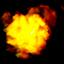
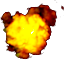
new file:   assets/crashed_m4.png 	modified:   assets/explosion/tile000.png 	modified:   assets/explosion/tile001.png 	modified:   assets/explosion/tile002.png 	modified:   assets/explosion/tile003.png 	modified:   assets/explosion/tile004.png 	modified:   assets/explosion/tile005.png 	modified:   a

diff --git a/main.py b/main.py
@@ -2,11 +2,12 @@ import asyncio
 import pygame as pg
 import sys, platform, math, random
 import subprocess  # Import subprocess module
+import time
 
 from player import Player
 from themes import load_themes, set_theme
 from objects import OncomingCar, StaticObject, Helicopter, Target
-from renderer import render_element, draw_background
+from renderer import render_element, draw_background, render_explosion
 
 async def main():
     SCREEN_WIDTH = 320
@@ -23,10 +24,12 @@ async def main():
 
     road_texture = pg.image.load("assets/road.png").convert()
     car_sprite = pg.image.load("assets/m4.png").convert_alpha()
+    crashed_car_sprite = pg.image.load("assets/crashed_m4.png").convert_alpha()
     font_settings = pg.font.Font('assets/racing_font.ttf', 30)  # For settings menu
     
     car_sprite.set_colorkey((255, 0, 255))
     car_sprite = pg.transform.scale(car_sprite, (int(car_sprite.get_size()[0]/3), int(car_sprite.get_size()[1]/3)))
+    crashed_car_sprite = pg.transform.scale(crashed_car_sprite, (int(crashed_car_sprite.get_size()[0]/4), int(crashed_car_sprite.get_size()[1]/4)))
 
     # Load themes and home icon (Saif 29 - 33)
     themes = load_themes()
@@ -40,7 +43,11 @@ async def main():
 
     car = Player()
 
+    explosions = []
+
     game_objects = []
+
+    game_over = False
 
     for i in range(3):
         distance = car.x + i * 50 + random.randint(-10, 10)
@@ -52,11 +59,12 @@ async def main():
         game_objects.append(obstacle)
 
     running = True
-    time = 0  # Track time of day, 0 for sunrise, 60 for sunset
+    time_of_day = 0  # Track time of day, 0 for sunrise, 60 for sunset
 
     while running:
         delta = clock.tick(FPS) / 1000
-        car.controls(delta)
+        if not game_over:
+            car.controls(delta)
 
         for event in pg.event.get():
             if event.type == pg.QUIT:
@@ -70,14 +78,14 @@ async def main():
                     running = False
 
         # Update time of day
-        time += delta * 3
+        time_of_day += delta * 3
 
-        if boss_spawned == False and time >= 150:
+        if boss_spawned == False and time_of_day >= 150:
             game_objects.append(Helicopter(car.x + 20))
             boss_spawned = True
 
 
-        draw_background(screen, SCREEN_WIDTH, SCREEN_HEIGHT, time, color_scheme, car.angle * 82)
+        draw_background(screen, SCREEN_WIDTH, SCREEN_HEIGHT, time_of_day, color_scheme, car.angle * 82)
 
         vertical = 180
         x = car.x
@@ -133,26 +141,58 @@ async def main():
 
         for obj in reversed(game_objects):
             obj.render(screen, car, z_buffer)
-            '''
-            hitbox = obj.get_hitbox(car)
-            if hitbox is not None:
-                pg.draw.rect(screen, (255, 0, 0), hitbox, 2)
-            '''
-        
-            if abs(obj.x - car.x) <= 2:
+
+            if not game_over and abs(obj.x - car.x) <= 2:
                 hitbox = obj.get_hitbox(car)
                 if hitbox is not None:
                     collision = obj.check_collision(car, car_hitbox)
                     if collision:
-                        pg.quit() 
-                        try:
-                            subprocess.run(["python", "PyGameProject/gameover.py"])  
-                        except Exception as e:
-                            print(f"Error launching game: {e}")
-                        sys.exit()  
-                        
+                        explosions.append({"x": SCREEN_WIDTH//3 + 25, "y": 100, "frame": 0, "timer": 0})
+                        print("started explosion")
+                        car.destroyed = True
+                        game_over = True
+                        break
 
-        screen.blit(car_sprite, (SCREEN_WIDTH/2 - 43.5 - car.sprite_offset, SCREEN_HEIGHT/2))
+        if not car.destroyed:
+            screen.blit(car_sprite, (SCREEN_WIDTH/2 - 43.5 - car.sprite_offset, SCREEN_HEIGHT/2))
+        else:
+            screen.blit(crashed_car_sprite, (SCREEN_WIDTH/2 - 80 - car.sprite_offset, SCREEN_HEIGHT/2))
+
+        if car.destroyed:
+            for explosion in explosions[:]:
+                explosion["timer"] += delta
+                
+                if explosion["timer"] >= 0.1:
+                    explosion["timer"] = 0
+                    explosion["frame"] += 1
+                render_explosion(screen, "assets/explosion", explosion["frame"], explosion["x"], explosion["y"], scale = 2.0)
+
+                if explosion["frame"] >= 16:
+                    explosions.remove(explosion)
+
+            print(len(explosions))
+            if len(explosions) == 0:
+                pg.quit()
+                try:
+                    subprocess.run(["python", "PyGameProject/gameover.py"])
+                except Exception as e:
+                    print(f"Error launching game: {e}")
+                sys.exit()
+
+
+
+        if not car.destroyed:
+            for explosion in explosions[:]:
+                explosion["timer"] += delta
+                
+                if explosion["timer"] >= 0.1:
+                    explosion["timer"] = 0
+                    explosion["frame"] += 1
+                render_explosion(screen, "assets/explosion", explosion["frame"], explosion["x"], explosion["y"])
+
+                if explosion["frame"] >= 16:
+                    explosions.remove(explosion)
+
 
         # Draw gear icon
         screen.blit(home_icon, home_rect.topleft)

diff --git a/renderer.py b/renderer.py
@@ -135,3 +135,14 @@ def draw_mountain(screen, x_offset, width, height, color):
         (x_offset + width, height) 
     ]
     pg.draw.polygon(screen, color, points)
+
+def render_explosion(screen, path, frame_counter, x, y, scale=1.0, tile_count=16):
+    frame = frame_counter % tile_count
+
+    tile_path = f"{path}/tile{frame:03}.png"
+    tile = pg.image.load(tile_path).convert_alpha()
+
+    width, height = tile.get_size()
+    scaled_tile = pg.transform.scale(tile, (int(width * scale), int(height * scale)))
+
+    screen.blit(scaled_tile, (x - width // 2, y - height // 2))

diff --git a/player.py b/player.py
@@ -19,6 +19,8 @@ class Player():
         self.width = 80
         self.height = 50
 
+        self.destroyed = False
+
     def controls(self, delta):
         pressed_keys = pg.key.get_pressed()
         self.acceleration += -0.5*self.acceleration*delta
